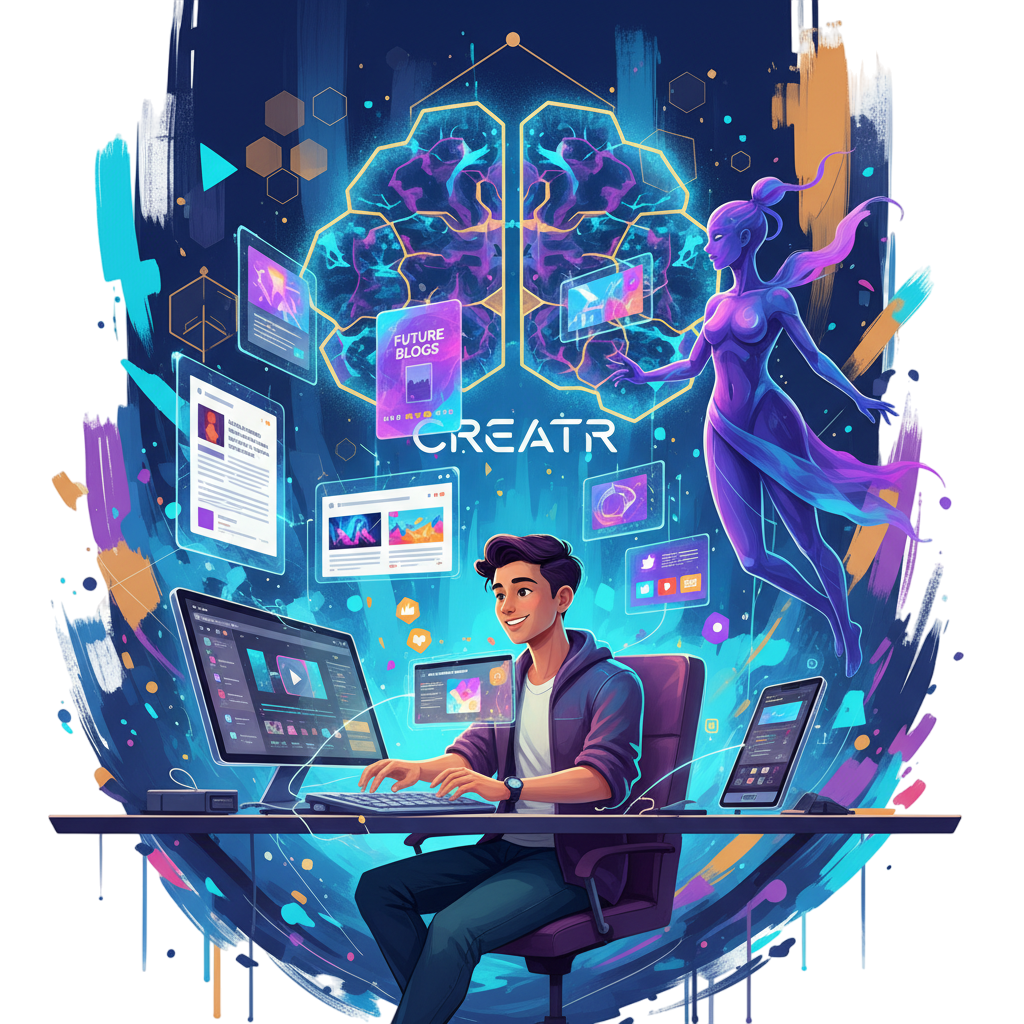
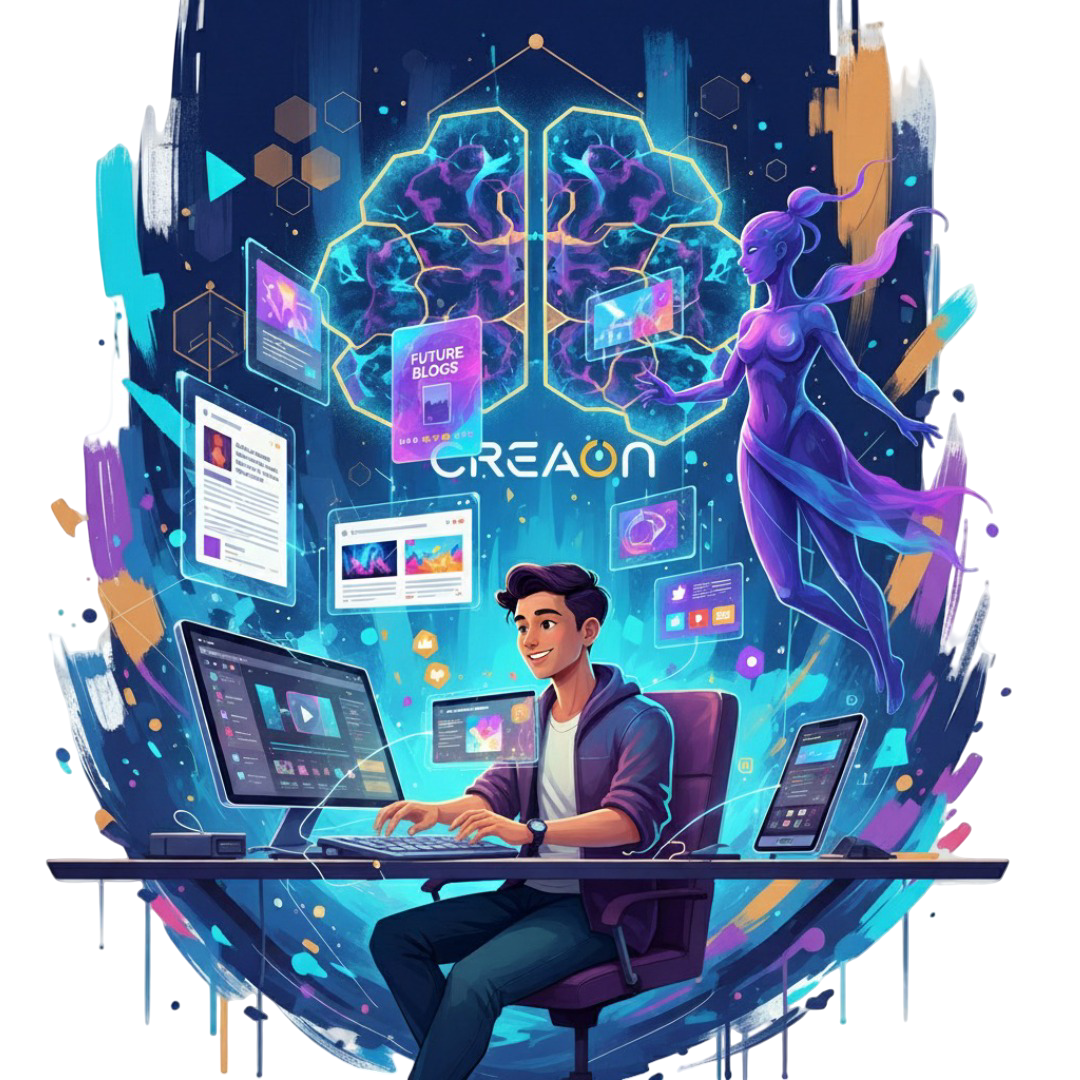
UI changes

Changed region(s): [[0.0312, 0.0, 0.9375, 1.0], [0.4062, 0.875, 0.4375, 0.9062], [0.0312, 0.7812, 0.0625, 0.8125]]

diff --git a/app/page.js b/app/page.js
@@ -385,8 +385,11 @@ const Home = () => {
       <footer className="relative z-10 border-t py-8 px-4 sm:px-6">
         <div className="max-w-7xl mx-auto text-center">
           <p className="text-muted-foreground">
-            Made with ❤ by{" "}
-            <span className="text-foreground font-semibold">RoadsideCoder</span>
+            Made with ❤ and AI by{" "}
+            <span className="text-foreground font-semibold">Rounak Dey Sarkar</span>
+          </p>
+          <p className="text-muted-foreground">
+            <Link href="https://github.com/Rounak200316">GitHub</Link>{" "}|{" "}<Link href="https://www.linkedin.com/in/rounakdeysarkar/">LinkedIn</Link>
           </p>
         </div>
       </footer>

diff --git a/lib/data.js b/lib/data.js
@@ -66,7 +66,7 @@ export const testimonials = [
     company: "@TechInsights",
     imageId: "1580489944761-15a19d654956",
     content:
-      "Creatr transformed how I create content. The AI writing assistant saves me hours every week.",
+      "CreaOn transformed how I create content. The AI writing assistant saves me hours every week.",
     rating: 5,
   },
   {

diff --git a/README.md b/README.md
@@ -1,4 +1,4 @@
-# Full Stack AI Content Platform with Next JS, Tailwind, React Quill, ImageKit, Shadcn UI Tutorial 🔥🔥
+# Full Stack AI Content Platform with Next JS, Tailwind, React Quill, ImageKit, Shadcn UI 🔥🔥
 
 ### Make sure to create a `.env` file with following variables -
 
